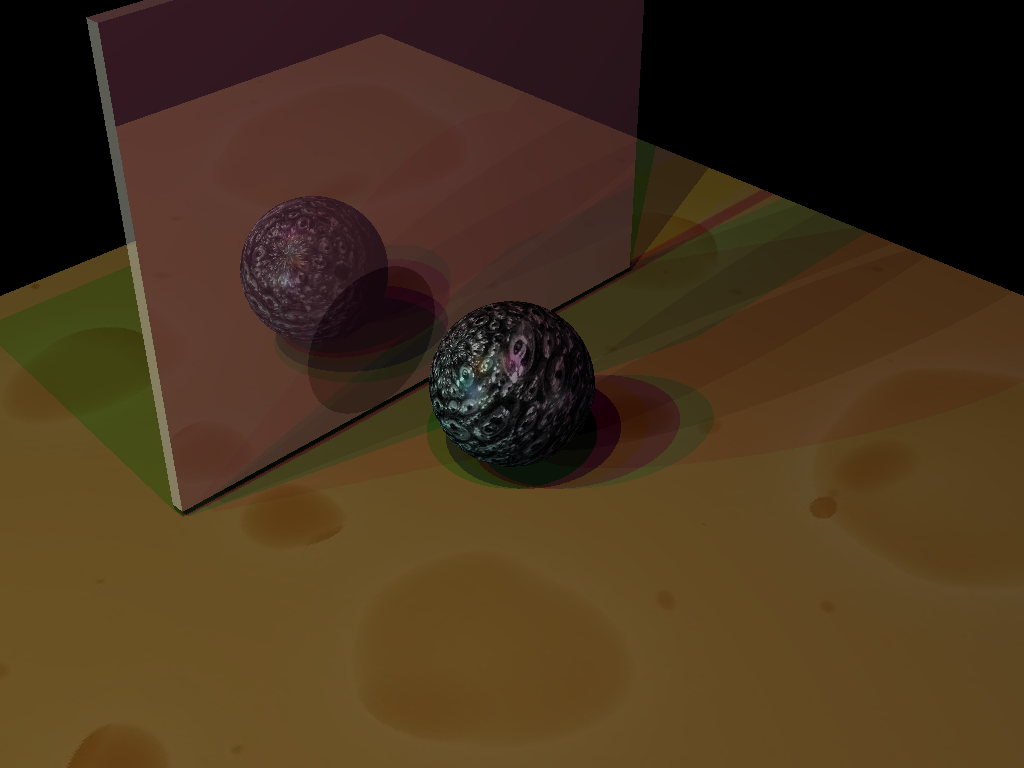
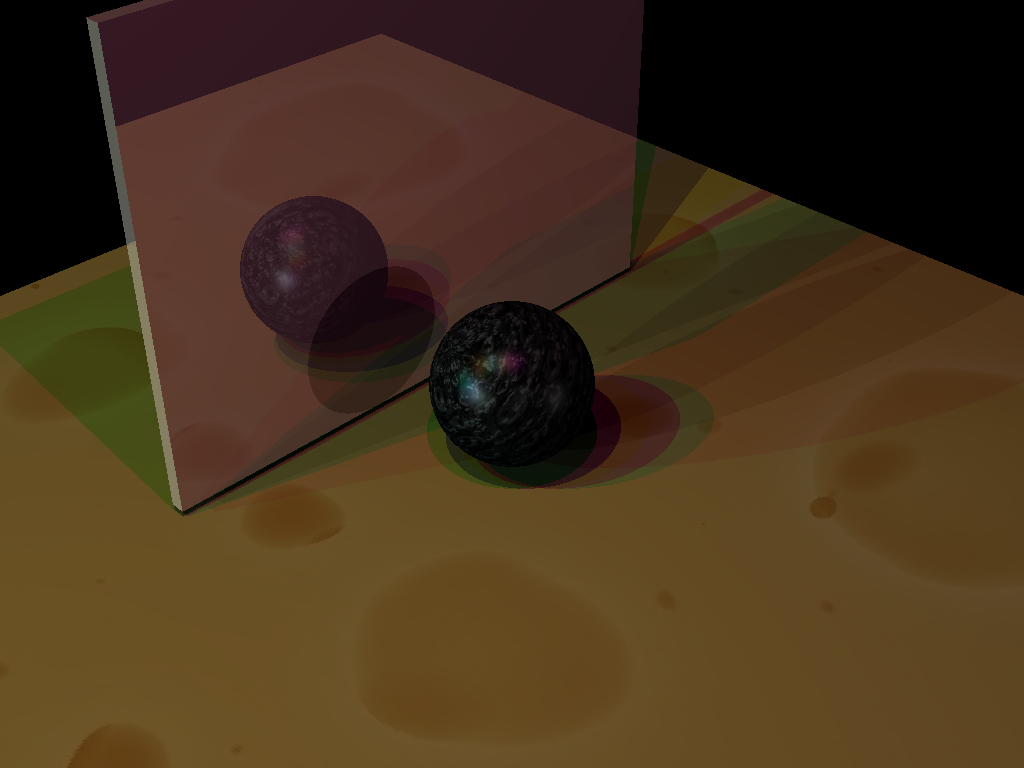
.

Changed region(s): [[0.4062, 0.4062, 0.5625, 0.5938], [0.2188, 0.25, 0.3438, 0.4375]]

diff --git a/src/raytracer/raytracer.cpp b/src/raytracer/raytracer.cpp
@@ -31,7 +31,6 @@ bool isReflective(SceneMaterial& mat) {
 
 void RayTracer::render(RGBA *imageData, const RayTraceScene &scene) {
 
-    std::vector<Ray> rays = std::vector<Ray>();
     for (int j = 0; j < scene.height(); j++) {
         for (int i = 0; i < scene.width(); i++) {
 
@@ -116,14 +115,14 @@ glm::vec4 RayTracer::traceRay(Ray ray,
             SceneMaterial material = closestShape->shapeInfo.primitive.material;
 
             normalWorld = glm::normalize(normalWorld);
-            glm::vec3 reflectedDirection = glm::reflect(ray.direction, normalWorld);
+            glm::vec3 reflectedDirection = ray.direction - 2.0f * glm::dot(ray.direction, normalWorld) * normalWorld;
 
             reflectedRay.origin = hitPointWorld + normalWorld * 0.001f;
-            reflectedRay.direction = glm::normalize(reflectedDirection);
+            reflectedRay.direction = reflectedDirection;
 
             glm::vec4 reflectedColor = traceRay(reflectedRay, scene, recursiveDepth + 1);
-
             glm::vec3 reflWeight = glm::vec3(material.cReflective) * scene.getGlobalData().ks;
+
             color += glm::vec4(reflWeight * glm::vec3(reflectedColor), 0.0f);
 
        }
@@ -217,8 +216,10 @@ glm::vec4 RayTracer::phong(glm::vec3  position,
 
             } else {
 
+                // Should be doing attenuation calculations if the light is not directional .
                 float distance = glm::length(glm::vec3(light.pos) - position);
-                attenuation = 1.0f / (light.function.x + distance * light.function.y +
+                attenuation = 1.0f / (light.function.x +
+                                      distance * light.function.y +
                                       (distance * distance) * light.function.z);
                 attenuation = glm::min(1.0f, attenuation);
 
@@ -258,10 +259,6 @@ glm::vec4 RayTracer::phong(glm::vec3  position,
 
             float ndotl = glm::max(glm::dot(normal, lightDirection), 0.0f);
 
-            if (ndotl == 0) {
-
-            }
-
             // Diffusion Calculations (including UV mapping) --
             if (material.textureMap.isUsed) {
 
@@ -275,18 +272,20 @@ glm::vec4 RayTracer::phong(glm::vec3  position,
 
                 // Repeating texture checking, normal assignment otherwise
                 if (textureInfo.repeatU > 0) x = (int)(glm::floor(uv.x * textureInfo.repeatU * textureMap->width)) % textureMap->width;
-                else x =(int)(uv.x * textureMap->width);
+                else x =(int)(glm::floor(uv.x * textureMap->width));
 
                 if (textureInfo.repeatV > 0) y = (int)(glm::floor((1 - uv.y) * textureInfo.repeatV * textureMap->height)) % textureMap->height;
-                else y = (int)((1- uv.y) * textureMap->height);
+                else y = (int)(glm::floor((1 - uv.y) * textureMap->height));
 
                 // Bounds checking
                 if (x >= textureMap->width) x = textureMap->width - 1;
                 if (y >= textureMap->height) y = textureMap->height - 1;
 
                 RGBA textureColor = textureMap->data[pointToIndex(x, y, textureMap->width)];
-                glm::vec4 calc = (scene.getGlobalData().kd * glm::vec4((float)textureColor.r, (float)textureColor.g, (float)textureColor.b, 255.0f)) / 255.0f;
-                diffuse = calc * ndotl * material.cDiffuse;
+                glm::vec3 textureColorNorm = glm::vec3((float)textureColor.r, (float)textureColor.g, (float)textureColor.b) / 255.0f;
+                glm::vec3 calc = (scene.getGlobalData().kd * glm::mix(glm::vec3(material.cDiffuse), textureColorNorm, material.blend));
+                //glm::vec4(glm: :mix(glm::vec3(shapeMaterial.cDiffuse), textureColor, shapeMaterial.blend),1);
+                diffuse = glm::vec4(calc, 1.0f) * ndotl;
 
             } else {
 

diff --git a/src/shapes/cube.cpp b/src/shapes/cube.cpp
@@ -84,19 +84,34 @@ glm::vec2 Cube::computeUV(glm::vec3& hitPoint) const {
     const float epsilon = 0.0001f;
     float u, v;
 
-    if (abs(hitPoint.x - 0.5f) < epsilon || abs(hitPoint.x + 0.5f) < epsilon) {
+    if (abs(hitPoint.x - 0.5f) < epsilon) {
+
+        u = -hitPoint.z + 0.5;
+        v = hitPoint.y + 0.5;
+
+    } else if (abs(hitPoint.x + 0.5f) < epsilon) {
 
         u = hitPoint.z + 0.5;
         v = hitPoint.y + 0.5;
 
-    } else if (abs(hitPoint.y - 0.5f) < epsilon || abs(hitPoint.y + 0.5f) < epsilon) {
+    } else if (abs(hitPoint.y - 0.5f) < epsilon) {
 
-        u = hitPoint.z + 0.5;
-        v = hitPoint.x + 0.5;
+        u = hitPoint.x + 0.5;
+        v = -hitPoint.z + 0.5;
+
+    } else if (abs(hitPoint.y + 0.5f) < epsilon) {
+
+        u = hitPoint.x + 0.5;
+        v = hitPoint.z + 0.5;
+
+    } else if (abs(hitPoint.z - 0.5f) < epsilon) {
+
+        u = hitPoint.x + 0.5;
+        v = hitPoint.y + 0.5;
 
     } else {
 
-        u = hitPoint.x + 0.5;
+        u = -hitPoint.x + 0.5;
         v = hitPoint.y + 0.5;
 
     }

diff --git a/src/shapes/cylinder.cpp b/src/shapes/cylinder.cpp
@@ -84,15 +84,20 @@ glm::vec2 Cylinder::computeUV( glm::vec3& hitPoint ) const {
     const float epsilon = 0.0001f;
     float u, v;
 
-    if (abs(hitPoint.y - 0.5f) < epsilon || abs(hitPoint.y + 0.5f) < epsilon) {
+    if (abs(hitPoint.y - 0.5f) < epsilon) {
 
         u = hitPoint.z + 0.5;
         v = hitPoint.x + 0.5;
 
+    } else if (abs(hitPoint.y + 0.5f) < epsilon) {
+
+        u = -hitPoint.z + 0.5;
+        v = hitPoint.x + 0.5;
+
     } else {
 
-        float theta = atan2(hitPoint.z, hitPoint.x);
-        u = (theta + M_PI) / (2 * M_PI);
+        float theta = atan2(-hitPoint.z, hitPoint.x);
+        u = (theta) / (2.0f * M_PI);
         v = hitPoint.y + 0.5;
 
     }

diff --git a/src/shapes/sphere.cpp b/src/shapes/sphere.cpp
@@ -30,10 +30,10 @@ glm::vec3 Sphere::computeNormal(glm::vec3& hitPoint) const {
 
 glm::vec2 Sphere::computeUV(glm::vec3& hitPoint) const {
 
-    float theta = atan2(hitPoint.z, hitPoint.x);
+    float theta = atan2(-hitPoint.z, hitPoint.x);
     float phi = asin(hitPoint.y / m_radius);
 
-    float u = (theta + M_PI) / (2 * M_PI);
+    float u = (theta) / (2 * M_PI);
     float v = (phi / M_PI) + 0.5;
 
     return glm::vec2(u, v);

diff --git a/src/shapes/cone.cpp b/src/shapes/cone.cpp
@@ -81,7 +81,7 @@ glm::vec2 Cone::computeUV(glm::vec3& hitPoint) const {
 
     } else {
 
-        float theta = atan2(hitPoint.z, hitPoint.x);
+        float theta = atan2(-hitPoint.z, hitPoint.x);
         u = (theta + M_PI) / (2 * M_PI) + 0.5;
         v = hitPoint.y + 0.5;
 
